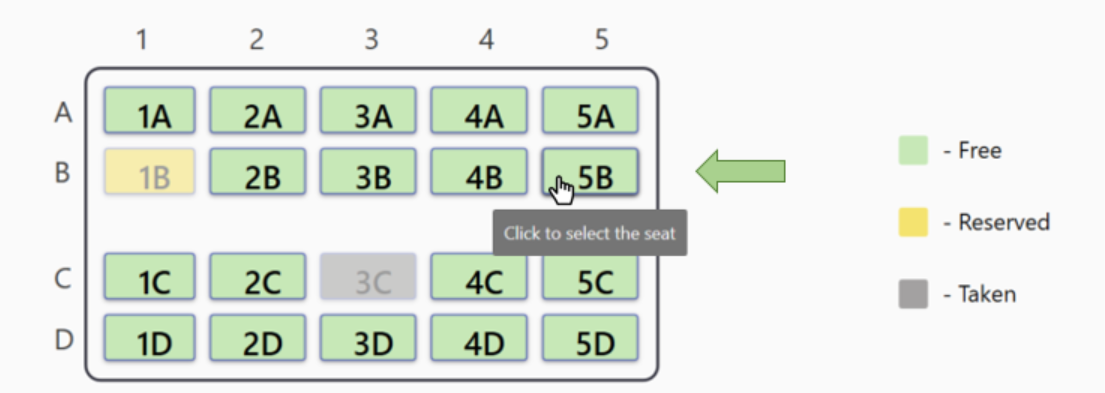
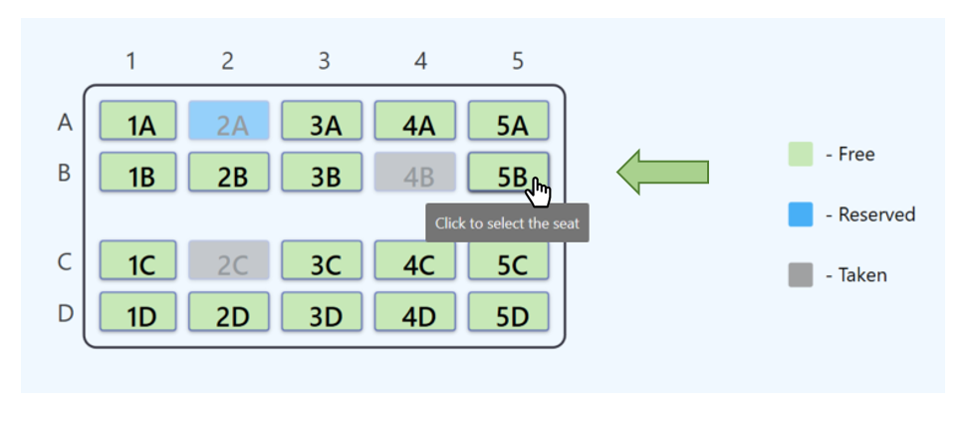
Ispravljen help za klijenta

diff --git a/HCI_Project/HCI_Project/view/SeatChoice.xaml b/HCI_Project/HCI_Project/view/SeatChoice.xaml
@@ -89,7 +89,7 @@
                             <Rectangle Width="20" Height="20" Fill="#c7e8b7" RadiusX="2" RadiusY="2"></Rectangle>
                         </Canvas>
                         <Canvas Grid.Row="1" Grid.Column="0" Margin="10,10,10,10">
-                            <Rectangle Width="20" Height="20" Fill="#f2d933" RadiusX="2" RadiusY="2" Opacity="0.7"></Rectangle>
+                            <Rectangle Width="20" Height="20" Fill="#0090f2" RadiusX="2" RadiusY="2" Opacity="0.7"></Rectangle>
                         </Canvas>
                         <Canvas Grid.Row="2" Grid.Column="0" Margin="10,10,10,10">
                             <Rectangle Width="20" Height="20" Fill="#7d7b7a" RadiusX="2" RadiusY="2" Opacity="0.7"></Rectangle>

diff --git a/HCI_Project/HCI_Project/help/ClientsReservations.html b/HCI_Project/HCI_Project/help/ClientsReservations.html
@@ -14,7 +14,7 @@
             If you do not confirm a reservation at least 3 days before departure, it will be automatically cancelled. <br>
             To select a reserved ticket and to see departure details, click on the table row that represents it.
         </p>
-        <img src="img/clientsTickets/purchasedTickets.png" style="border: solid #3b393a 1px; margin-bottom: 2%" />
+        <img src="img/clientsReservations/reservedTickets.png" style="border: solid #3b393a 1px; margin-bottom: 2%" />
 
         <p style="font-size: 1.2em">
             You can also filter your tickets by date of reservation. <br>
